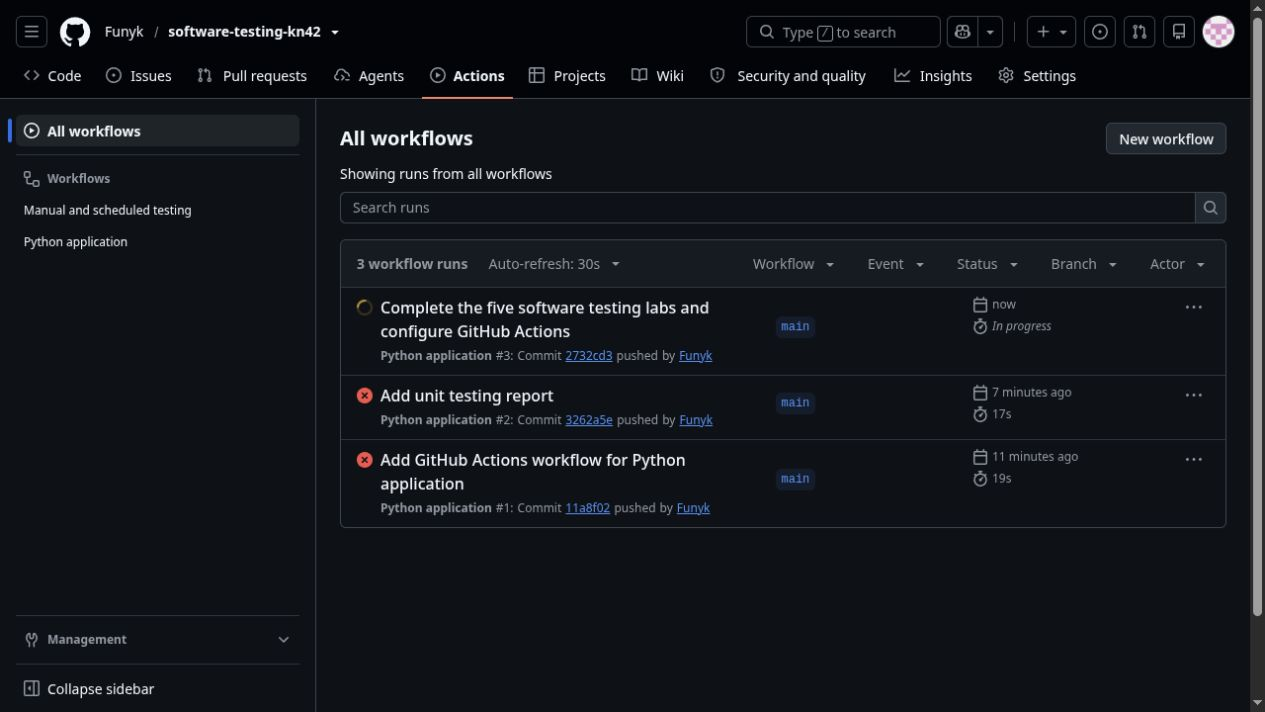
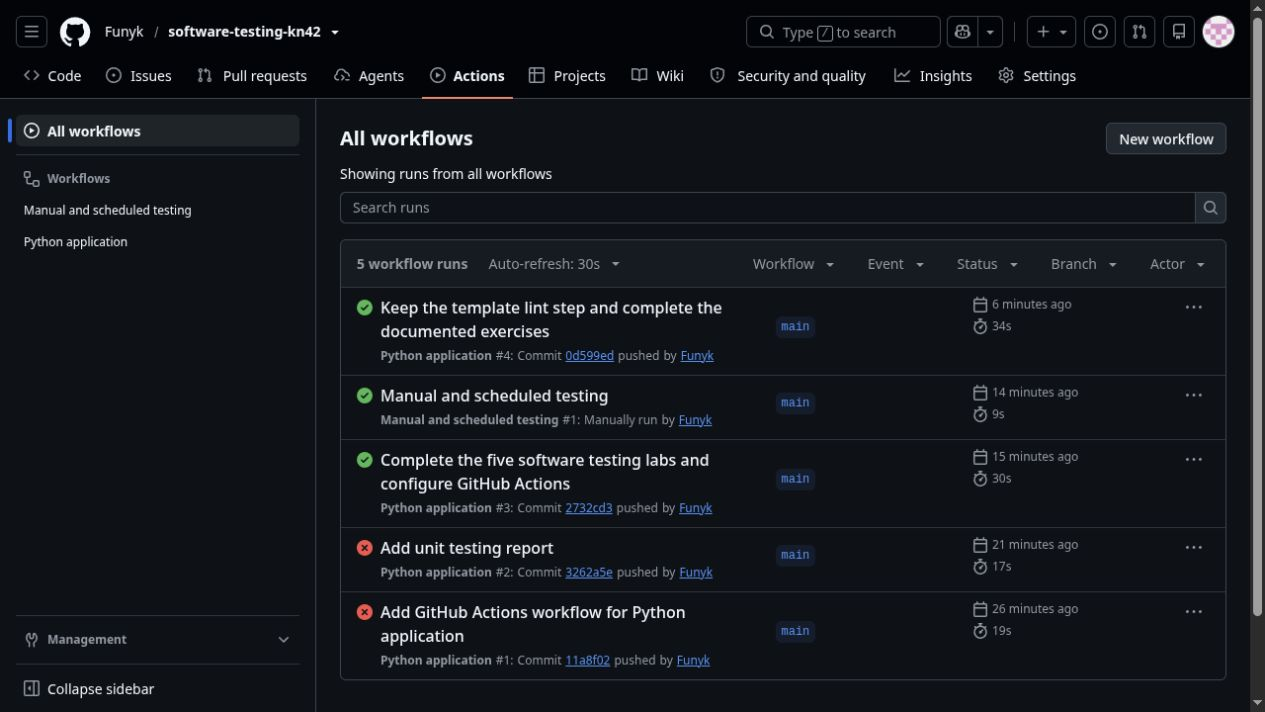
Document the verified cron expression and final test results

diff --git a/testing/5_lab/README.md b/testing/5_lab/README.md
@@ -16,9 +16,9 @@
 
 1. У вкладці **Actions** вибрано **Python application → Configure**. Шаблон збережено без редагування у [першому коміті](https://github.com/Funyk/software-testing-kn42/commit/11a8f022d53050125e78651250f81ecd6bb9ccf5). Він отримує код через `checkout`, готує Python через `setup-python`, встановлює пакети, виконує статичну перевірку `flake8` і запускає `pytest`.
 2. У [python-app.yml](../../.github/workflows/python-app.yml) налаштовано Python 3.13 і встановлення залежностей через Poetry. З шаблону збережено перевірку `flake8`, у якій синтаксичні помилки та невизначені імена зупиняють збірку, а зауваження до стилю залишаються у журналі. Крок `Run Python` запускає `game.py` з роботи №1. Далі `pytest -v` запускає весь набір тестів. Окремий крок роботи №3 перевіряє поріг 90% для `app.py` і зберігає `coverage.xml` як артефакт `coverage-report`.
-3. У [manual-testing.yml](../../.github/workflows/manual-testing.yml) налаштовано `workflow_dispatch` з текстовим параметром `name` та `schedule` із часом `57 1 * * 6`. Це субота о 01:57 UTC. Два завдання запускають груповий сценарій Bash і програму Python з роботи №1. Крок `Send greeting` виконується лише за ручного запуску, якщо передано ім’я, відмінне від `Executer`.
+3. У [manual-testing.yml](../../.github/workflows/manual-testing.yml) налаштовано `workflow_dispatch` з текстовим параметром `name` та `schedule` із часом `17 2 * * 6`. Це субота о 02:17 UTC. Два завдання запускають груповий сценарій Bash і програму Python з роботи №1. Крок `Send greeting` виконується лише за ручного запуску, якщо передано ім’я, відмінне від `Executer`.
 
-[Перший запуск шаблону](https://github.com/Funyk/software-testing-kn42/actions/runs/43540733689) завершився кодом `5`, тому що в репозиторії ще не було тестів. Журнал `pytest` показав `collected 0 items`.
+[Перший запуск шаблону](https://github.com/Funyk/software-testing-kn42/actions/runs/43540733689) завершився кодом `5`, тому що в репозиторії ще не було тестів. Журнал `pytest` показав `collected 0 items`. [Початковий стан у вкладці Actions](pictures/template.png).
 
 У матеріалах групи є демонстрація помилки запуску. [`action.sh`](action.sh) завершився з кодом `0`, а [`action.py`](action.py) вивів повідомлення про помилку та через `SystemExit` завершився з кодом `1`. [Вивід Bash](results/05-group-bash.txt) · [Вивід Python](results/05-group-python.txt).
 
@@ -29,9 +29,11 @@
 | [Python application](https://github.com/Funyk/software-testing-kn42/actions/runs/43542647725) | Перевірка `flake8` пройшла без критичних помилок. Пройдено 118 тестів і 12 підтестів. Один навчальний тест позначено `skip`. Окрема перевірка `app.py` показала 100% при порозі 90%. |
 | [Ручний запуск з `name=Артем`](https://github.com/Funyk/software-testing-kn42/actions/runs/43541871473) | Завдання Bash і Python пройшли. Крок `Send greeting` вивів `Привіт, Артем!`. |
 
-Вираз `57 1 * * 6` перевірено в [CronTab Guru](https://crontab.guru/#57_1_*_*_6). Для GitHub Actions час у виразі задано в UTC. [Перевірка виразу](pictures/cron-expression.png).
+Вираз `17 2 * * 6` перевірено в [CronTab Guru](https://crontab.guru/#17_2_*_*_6). Для GitHub Actions час у виразі задано в UTC. [Перевірка виразу](pictures/cron-expression.png).
 
 ![Два workflow у вкладці Actions](pictures/workflows.png)
+
+[Підсумок CI та артефакт покриття](pictures/ci-success.png) · [Журнал повного набору тестів](pictures/ci-tests.png)
 
 ![Результат двох завдань ручного запуску](pictures/manual-jobs.png)
 
